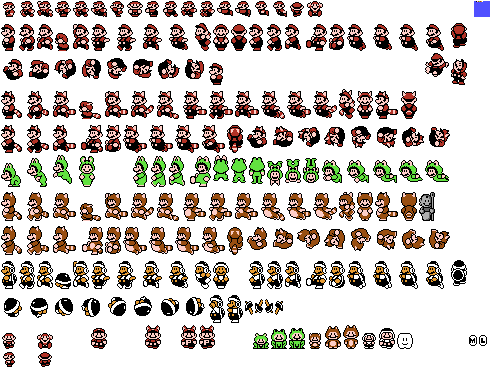
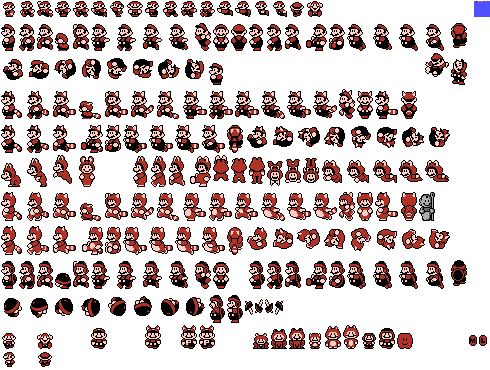
Hacky hacks of hackery

diff --git a/source/nes/smb3/mario/sprite.py b/source/nes/smb3/mario/sprite.py
@@ -31,18 +31,32 @@ class Sprite(SpriteParent):
         self.mario_globals["fire_palette"] = [
             # (  0,  0,  0),
             (178, 50, 38),  # outline
-            ( 35, 77, 90),  # shirt color
+            (232,157, 52),  # shirt color
             (254,206,199),  # skin color
+        ]
+        self.mario_globals["tanooki_palette"] = [
+            # (  0,  0,  0),
+            (  0,  0,  0),  # outline
+            (152, 78, 15),  # tanooki costume
+            (254,206,199),  # skin color
+            ( 99, 99, 99),  # tanooki statue "dark"
+        ]
+        self.mario_globals["tanooki_statue_palette"] = [
+            # (  0,  0,  0),
+            (  0,  0,  0),  # outline
+            ( 99, 99, 99),  # tanooki statue "dark"
+            (173,173,173),  # tanooki statue "light"
+        ]
+        self.mario_globals["hammer_palette"] = [
+            # (  0,  0,  0),
+            (  0,  0,  0),  # outline
+            (255,255,255),  # hammer "light"
+            (232,157, 52),  # hammer "skin"
         ]
         self.mario_globals["global_palette"] = [
             # (  0,  0,  0),
-            (  0,  0,  0),
-            ( 98,226, 64),  # frog
-            (152, 78, 15),  # tanooki costume
-            ( 99, 99, 99),  # tanooki statue "dark"
-            (173,173,173),  # tanooki statue "skin/light"
-            (255,255,255),  # hammer "light"
-            (232,157, 52),  # hammer "skin"
+            (  0,  0,  0),  # outline
+            (255,255,255),  # body color
         ]
 
     def import_from_ROM(self, rom: RomHandlerParent):
@@ -110,7 +124,7 @@ class Sprite(SpriteParent):
     def get_palette(self, palettes, default_range=[], frame_number=0):
         palette_indices = None
         this_palette = []
-        range_end = 4
+        range_end = 8
         for i in range(1,range_end):
             this_palette.append((0,0,0))
 
@@ -118,9 +132,16 @@ class Sprite(SpriteParent):
             "mario",
             "luigi",
             "fire",
+            "frog",
+            "tanooki",
+            "tanooki_statue",
+            "hammer",
             "global"
         ]:
-            if f"{scheme}_brother" in palettes:
+            check = f"{scheme}_brother"
+            if check in palettes:
+                if scheme == "frog":
+                    scheme = "luigi"
                 this_palette = self.mario_globals[f"{scheme}_palette"]
 
         if len(this_palette) < 1:

diff --git a/source/meta/gui/animationlib.py b/source/meta/gui/animationlib.py
@@ -188,14 +188,29 @@ class AnimationEngineParent():
                     "Tanooki",
                     "Hammer",
                     "Cloud",
-                    "Marker"
+                    "Clear"
                 ]
                 for check in mario_checks:
                     if not check_passed and check in self.current_animation:
                         check_passed = True
                 if check_passed:
-                    self.spiffy_dict["brother_var"].set("global")
-                elif self.spiffy_dict["brother_var"].get() == "global":
+                    spiffy = "global"
+                    if "Frog" in self.current_animation:
+                        spiffy = "luigi"
+                    elif "Tanooki" in self.current_animation:
+                        spiffy = "tanooki"
+                        if "Statue" in self.current_animation:
+                            spiffy += "_statue"
+                    elif "Hammer" in self.current_animation:
+                        spiffy = "hammer"
+                    self.spiffy_dict["brother_var"].set(spiffy)
+                elif self.spiffy_dict["brother_var"].get() in [
+                    "frog",
+                    "tanooki",
+                    "tanookie_statue",
+                    "hammer",
+                    "global"
+                ]:
                     self.spiffy_dict["brother_var"].set("mario")
             palette_info = ['_'.join([value.get(), var_name.replace("_var","")]) for var_name, value in self.spiffy_dict.items()]  #I'm not convinced that this is the best way to do this
 
